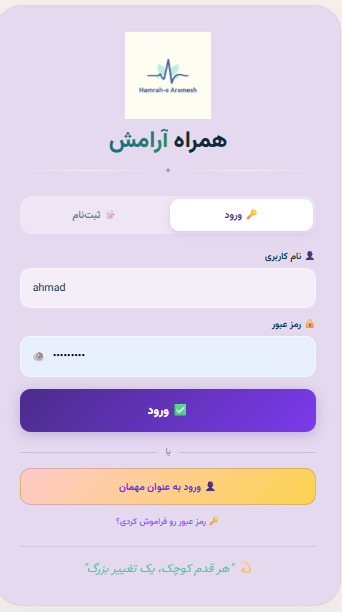
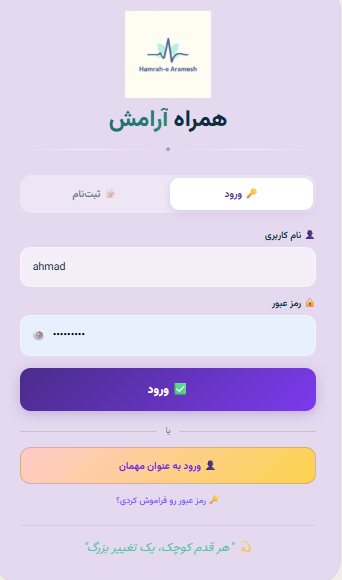
feat: مهاجرت به PostgreSQL + افزودن Gemini Provider
Database:
- مهاجرت از SQLite به PostgreSQL
- افزودن psycopg2-binary
- پشتیبانی از هر دو (SQLite + PostgreSQL)
- فیکس null bytes (0x00) برای PostgreSQL
- آپدیت ensure_database_ready (skip SQLite)

 LLM:
- افزودن Gemini Provider (gemini-1.5-flash)
- پشتیبانی از Gemini در LLMService
- آپدیت config برای GEMINI_API_KEY

 Screenshots:
- بهینهسازی حجم تصاویر ( فایل)

 تستها:
-  تست پاس
- Coverage:

diff --git a/utils/llm/providers/gemini.py b/utils/llm/providers/gemini.py
@@ -1,8 +1,8 @@
 # ============================================================
 # Gemini Provider — استفاده از Google Gemini API
+# (پکیج جدید: google-genai)
 # ============================================================
 
-import google.generativeai as genai
 from .base import LLMProvider
 from ..prompts import PROMPTS
 from ..parser import parse_json_response, get_fallback_analysis
@@ -15,22 +15,57 @@ class GeminiProvider(LLMProvider):
     def __init__(self):
         self.config = get_config()
         self.api_key = self.config.GEMINI_API_KEY
+        self.model_name = self.config.GEMINI_MODEL
 
         if not self.api_key:
             print("⚠ GEMINI_API_KEY تنظیم نشده")
-            self.model = None
+            self.client = None
             return
 
         try:
-            genai.configure(api_key=self.api_key)
-            self.model = genai.GenerativeModel('gemini-1.5-flash')
-            print("✅ Gemini Provider آماده")
+            from google import genai
+
+            self.client = genai.Client(api_key=self.api_key)
+
+            print(f"✅ Gemini Provider آماده")
+            print(f"   Model: {self.model_name}")
+
+        except ImportError:
+            print("❌ google-genai نصب نیست")
+            print("   نصب: pip install google-genai")
+            self.client = None
         except Exception as e:
             print(f"❌ خطا در راهاندازی Gemini: {e}")
-            self.model = None
+            self.client = None
 
     def is_available(self):
-        return self.model is not None
+        return self.client is not None
+
+    # ============================================================
+    # تولید متن پایه
+    # ============================================================
+
+    def _generate(self, prompt, json_mode=False):
+        """تولید متن با Gemini"""
+        if not self.is_available():
+            return None
+
+        try:
+            config = {}
+            if json_mode:
+                config['response_mime_type'] = 'application/json'
+
+            response = self.client.models.generate_content(
+                model=self.model_name,
+                contents=prompt,
+                config=config if config else None
+            )
+
+            return response.text.strip() if response.text else None
+
+        except Exception as e:
+            print(f"❌ خطا در Gemini generate: {e}")
+            return None
 
     # ============================================================
     # تحلیل متن
@@ -41,14 +76,46 @@ class GeminiProvider(LLMProvider):
             return get_fallback_analysis()
 
         try:
-            prompt = PROMPTS['analysis'].format(
+            # ===== RAG context =====
+            rag_context = ""
+            try:
+                from utils.rag.service import get_rag_service
+                rag = get_rag_service()
+
+                if rag.is_ready():
+                    combined_text = " ".join([t for t in text_answers if t and t.strip()])
+                    if combined_text:
+                        rag_context = rag.get_context(combined_text, top_k=3)
+            except Exception as e:
+                print(f"⚠ خطا در RAG: {e}")
+
+            # ===== ساخت پرامپت =====
+            base_prompt = PROMPTS['analysis'].format(
                 answer1=text_answers[0] if len(text_answers) > 0 else '',
                 answer2=text_answers[1] if len(text_answers) > 1 else '',
                 answer3=text_answers[2] if len(text_answers) > 2 else '',
             )
 
-            response = self.model.generate_content(prompt)
-            result = parse_json_response(response.text)
+            if rag_context:
+                prompt = f"""نمونههای مشابه از دیتاست روانشناسی:
+
+{rag_context}
+
+---
+
+حالا بر اساس نمونههای بالا، این پاسخهای کاربر رو تحلیل کن:
+
+{base_prompt}"""
+            else:
+                prompt = base_prompt
+
+            # ===== فراخوانی =====
+            response_text = self._generate(prompt, json_mode=True)
+
+            if not response_text:
+                return get_fallback_analysis()
+
+            result = parse_json_response(response_text)
 
             if not result:
                 return get_fallback_analysis()
@@ -79,9 +146,31 @@ class GeminiProvider(LLMProvider):
             return None
 
         try:
-            prompt = PROMPTS['chat'].format(message=message)
-            response = self.model.generate_content(prompt)
-            return response.text.strip()
+            # ===== RAG =====
+            rag_context = ""
+            try:
+                from utils.rag.service import get_rag_service
+                rag = get_rag_service()
+
+                if rag.is_ready():
+                    rag_context = rag.get_context(message, top_k=2)
+            except Exception as e:
+                print(f"⚠ خطا در RAG چت: {e}")
+
+            base_prompt = PROMPTS['chat'].format(message=message)
+
+            if rag_context:
+                prompt = f"""نمونههای مشابه از دیتاست روانشناسی:
+
+{rag_context}
+
+---
+
+{base_prompt}"""
+            else:
+                prompt = base_prompt
+
+            return self._generate(prompt)
 
         except Exception as e:
             print(f"❌ خطا در Gemini chat: {e}")
@@ -97,8 +186,7 @@ class GeminiProvider(LLMProvider):
 
         try:
             prompt = PROMPTS['weekly_summary'].format(**data)
-            response = self.model.generate_content(prompt)
-            return response.text.strip()
+            return self._generate(prompt)
 
         except Exception as e:
             print(f"❌ خطا در Gemini summary: {e}")

diff --git a/utils/helpers.py b/utils/helpers.py
@@ -14,18 +14,22 @@ import jdatetime
 
 def utcnow():
     """
-    زمان UTC بدون timezone (برای ذخیره در SQLite)
+    زمان UTC بدون timezone (برای ذخیره در SQLite/PostgreSQL)
 
     چرا این تابع؟
     - datetime.utcnow() توی Python 3.12+ deprecated شده
     - datetime.now(timezone.utc) timezone-aware برمیگردونه
-    - SQLite نمیتونه timezone-aware رو مستقیم ذخیره کنه
+    - دیتابیس نمیتونه timezone-aware رو مستقیم ذخیره کنه
 
     Returns:
         datetime: زمان UTC بدون timezone
     """
     return datetime.now(timezone.utc).replace(tzinfo=None)
 
+
+# ============================================================
+# تاریخ شمسی
+# ============================================================
 
 def get_persian_date(date=None):
     """تبدیل تاریخ میلادی به شمسی"""
@@ -82,23 +86,42 @@ def get_persian_weekday_short(weekday):
     return weekdays.get(weekday, '')
 
 
+# ============================================================
+# پاکسازی ورودی
+# ============================================================
+
 def sanitize_input(text):
-    """پاکسازی ورودی کاربر"""
+    """
+    پاکسازی ورودی کاربر
+
+    - حذف null bytes (0x00) — برای سازگاری با PostgreSQL
+    - حذف تگهای HTML
+    - حذف کاراکترهای خطرناک
+    - محدودیت طول
+    """
     if not text:
         return ''
 
-    # حذف تگهای HTML
+    # ===== 🆕 حذف null bytes (0x00) =====
+    # PostgreSQL اجازه نمیده NUL ذخیره بشه
+    text = text.replace('\x00', '')
+
+    # ===== حذف تگهای HTML =====
     text = re.sub(r'<[^>]*>', '', text)
 
-    # حذف کاراکترهای خطرناک
+    # ===== حذف کاراکترهای خطرناک =====
     text = re.sub(r'[<>{}()\[\]]', '', text)
 
-    # محدودیت طول
+    # ===== محدودیت طول =====
     if len(text) > 1000:
         text = text[:1000]
 
     return text.strip()
 
+
+# ============================================================
+# اعتبارسنجی
+# ============================================================
 
 def validate_email(email):
     """اعتبارسنجی ایمیل"""
@@ -118,6 +141,10 @@ def calculate_age(birth_date):
     return today.year - birth_date.year - ((today.month, today.day) < (birth_date.month, birth_date.day))
 
 
+# ============================================================
+# فایلها
+# ============================================================
+
 def format_file_size(size_in_bytes):
     """فرمت کردن حجم فایل"""
     for unit in ['B', 'KB', 'MB', 'GB']:
@@ -131,6 +158,10 @@ def is_allowed_file(filename, allowed_extensions):
     """بررسی مجاز بودن پسوند فایل"""
     return '.' in filename and filename.rsplit('.', 1)[1].lower() in allowed_extensions
 
+
+# ============================================================
+# JSON
+# ============================================================
 
 def load_json_file(filepath):
     """بارگذاری فایل JSON"""
@@ -150,6 +181,10 @@ def save_json_file(filepath, data):
     except Exception:
         return False
 
+
+# ============================================================
+# آمار خلقیات
+# ============================================================
 
 def get_week_moods(moods_data):
     """گرفتن خلقیات هفته از دیتا"""

diff --git a/database/db.py b/database/db.py
@@ -1,3 +1,7 @@
+# ============================================================
+# database/db.py
+# ============================================================
+
 from flask_sqlalchemy import SQLAlchemy
 from sqlalchemy import event
 from sqlalchemy.engine import Engine
@@ -6,14 +10,16 @@ db = SQLAlchemy()
 
 
 # ============================================================
-# فعالسازی Foreign Key در SQLite
+# SQLite: فعالسازی Foreign Key
 # ============================================================
-# بهصورت پیشفرض، SQLite FK constraint رو چک نمیکنه!
-# این تابع باعث میشه چک بشه.
+# فقط برای SQLite — PostgreSQL خودش FK رو چک میکنه.
 
 @event.listens_for(Engine, "connect")
 def set_sqlite_pragma(dbapi_connection, connection_record):
     """فعالسازی FK در SQLite"""
-    cursor = dbapi_connection.cursor()
-    cursor.execute("PRAGMA foreign_keys=ON")
-    cursor.close()
+    # ===== 🆕 چک کن SQLite هست =====
+    module_name = dbapi_connection.__class__.__module__
+    if 'sqlite' in module_name:
+        cursor = dbapi_connection.cursor()
+        cursor.execute("PRAGMA foreign_keys=ON")
+        cursor.close()

diff --git a/utils/llm/service.py b/utils/llm/service.py
@@ -2,7 +2,7 @@
 # سرویس اصلی LLM
 # ============================================================
 
-from .providers import OpenAIProvider
+from .providers import OpenAIProvider,GeminiProvider
 
 try:
     from .providers import LocalProvider
@@ -29,6 +29,8 @@ class LLMService:
 
         if provider_name == 'openai':
             return OpenAIProvider()
+        elif provider_name == 'gemini':
+            return GeminiProvider()
         elif provider_name == 'local':
             if LocalProvider is None:
                 print("❌ LocalProvider در دسترس نیست")

diff --git a/config.py b/config.py
@@ -68,6 +68,9 @@ class Config:
     OPENAI_BASE_URL = os.environ.get('OPENAI_BASE_URL', 'https://api.avalai.ir/v1')
     OPENAI_MODEL = os.environ.get('OPENAI_MODEL', 'gpt-4o-mini')
     OPENAI_TRANSCRIBE_MODEL = os.environ.get('OPENAI_TRANSCRIBE_MODEL', 'whisper-1')
+    # ===== Gemini (Google) =====
+    GEMINI_API_KEY = os.environ.get('GEMINI_API_KEY')
+    GEMINI_MODEL = os.environ.get('GEMINI_MODEL', 'gemini-2.5-flash')
     # ============================================================
     # Speech
     # ============================================================

diff --git a/app.py b/app.py
@@ -199,7 +199,11 @@ def ensure_database_ready():
     if env != 'development':
         logger.info(f"⏭ skip ensure_database_ready (env={env})")
         return
-
+    # ===== فقط SQLite =====
+    db_uri = app.config.get('SQLALCHEMY_DATABASE_URI', '')
+    if 'sqlite' not in db_uri:
+        logger.info("⏭ skip ensure_database_ready (not SQLite)")
+        return
     from sqlalchemy import inspect
 
     with app.app_context():

diff --git a/utils/llm/providers/__init__.py b/utils/llm/providers/__init__.py
@@ -1,9 +1,10 @@
 from .base import LLMProvider
 from .openai import OpenAIProvider
+from .gemini import GeminiProvider
 
 try:
     from .local import LocalProvider
 except ImportError:
     LocalProvider = None
 
-__all__ = ['LLMProvider',  'OpenAIProvider', 'LocalProvider']
+__all__ = ['LLMProvider',  'OpenAIProvider','GeminiProvider', 'LocalProvider']
